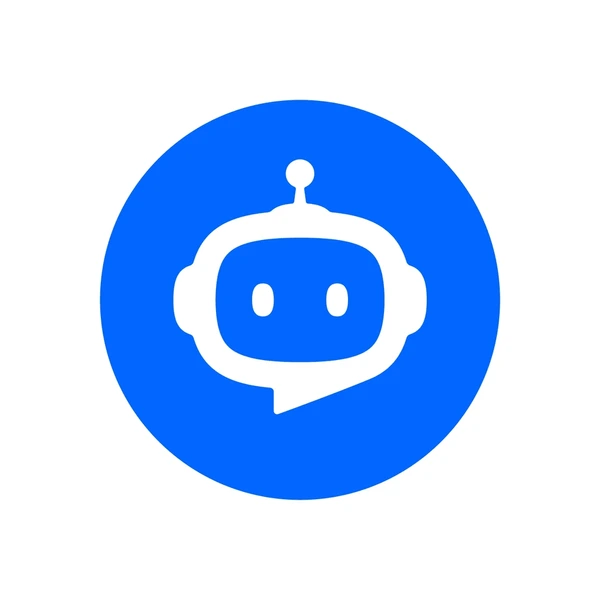
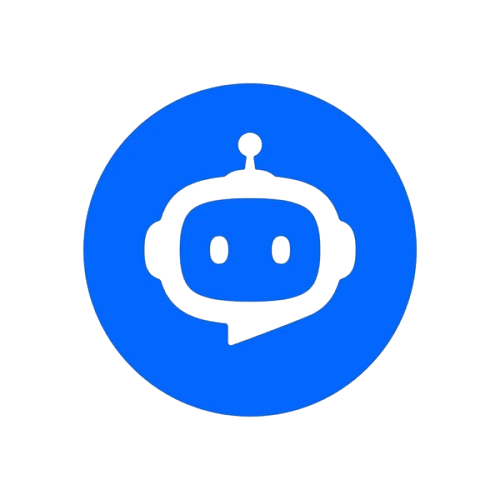
added

diff --git a/src/components/FloatingChatbot.jsx b/src/components/FloatingChatbot.jsx
@@ -150,7 +150,7 @@ Please provide encouraging, helpful academic guidance.`;
       {/* Floating Chat Button */}
       <motion.button
         onClick={toggleChat}
-        className="fixed bottom-6 right-6 w-14 h-14 sm:w-16 sm:h-16 bg-gradient-to-r from-blue-500 to-blue-600 hover:from-blue-600 hover:to-blue-700 text-white rounded-full shadow-lg hover:shadow-xl transition-all duration-300 z-50 flex items-center justify-center"
+        className="fixed bottom-6 right-6 w-16 h-16 sm:w-20 sm:h-20 bg-white hover:bg-gray-50 text-gray-700 rounded-full shadow-lg hover:shadow-xl transition-all duration-300 z-50 flex items-center justify-center overflow-hidden border-2 border-gray-200"
         whileHover={{ scale: 1.1 }}
         whileTap={{ scale: 0.95 }}
         initial={{ opacity: 0, y: 20 }}
@@ -162,8 +162,8 @@ Please provide encouraging, helpful academic guidance.`;
             <motion.svg
               key="close"
               xmlns="http://www.w3.org/2000/svg"
-              width="24"
-              height="24"
+              width="28"
+              height="28"
               viewBox="0 0 24 24"
               fill="none"
               stroke="currentColor"
@@ -179,26 +179,16 @@ Please provide encouraging, helpful academic guidance.`;
               <line x1="6" y1="6" x2="18" y2="18" />
             </motion.svg>
           ) : (
-            <motion.svg
-              key="chat"
-              xmlns="http://www.w3.org/2000/svg"
-              width="24"
-              height="24"
-              viewBox="0 0 24 24"
-              fill="none"
-              stroke="currentColor"
-              strokeWidth="2"
-              strokeLinecap="round"
-              strokeLinejoin="round"
-              initial={{ rotate: -180, opacity: 0 }}
-              animate={{ rotate: 0, opacity: 1 }}
-              exit={{ rotate: -180, opacity: 0 }}
+            <motion.img
+              key="chatbot"
+              src="/uploads/chatbot_icon.png"
+              alt="Chatbot"
+              className="w-12 h-12 sm:w-16 sm:h-16 object-contain"
+              initial={{ rotate: -180, opacity: 0, scale: 0.8 }}
+              animate={{ rotate: 0, opacity: 1, scale: 1 }}
+              exit={{ rotate: -180, opacity: 0, scale: 0.8 }}
               transition={{ duration: 0.2 }}
-            >
-              <path d="M21 15a2 2 0 0 1-2 2H7l-4 4V5a2 2 0 0 1 2-2h14a2 2 0 0 1 2 2z" />
-              <path d="M13 8H7" />
-              <path d="M17 12H7" />
-            </motion.svg>
+            />
           )}
         </AnimatePresence>
       </motion.button>
